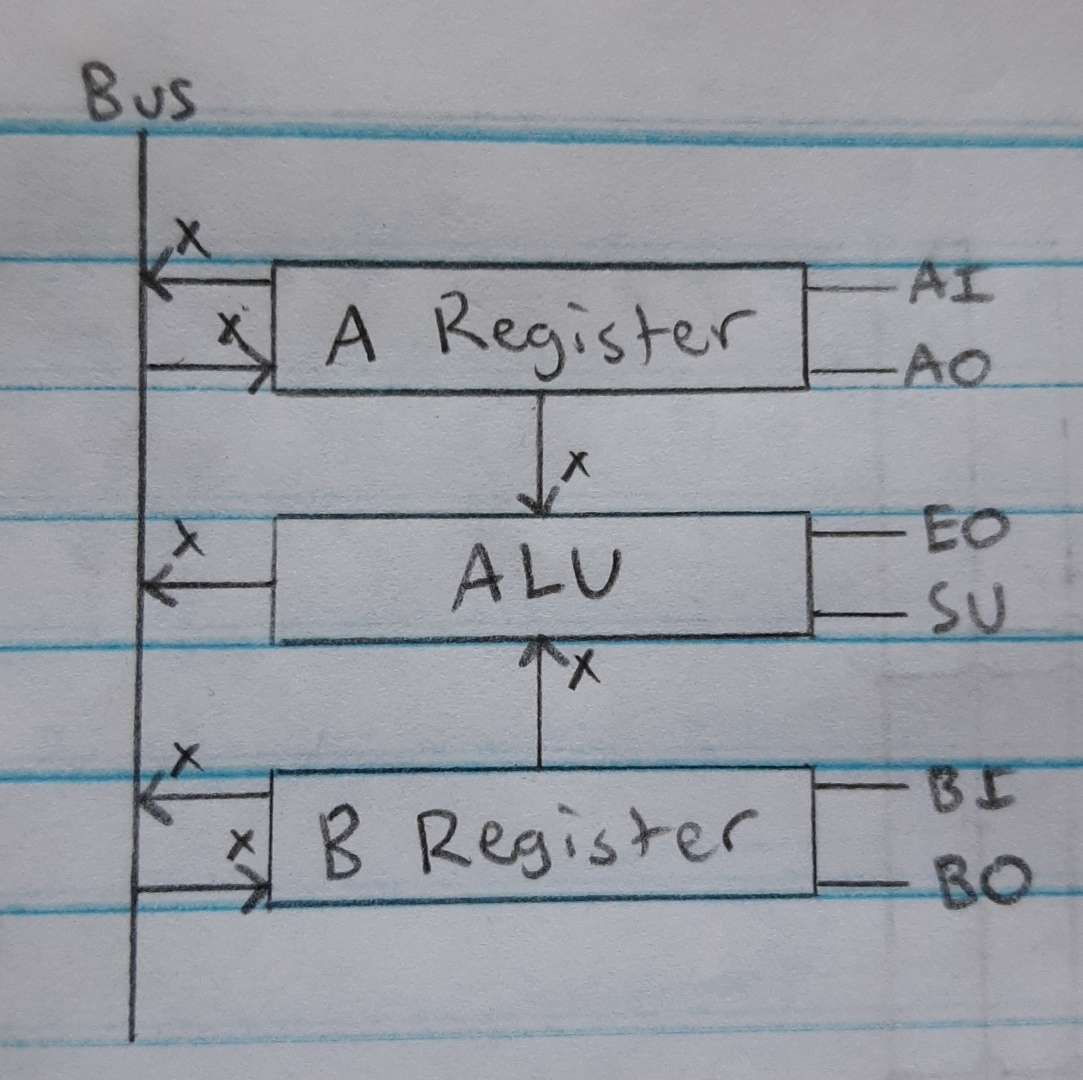
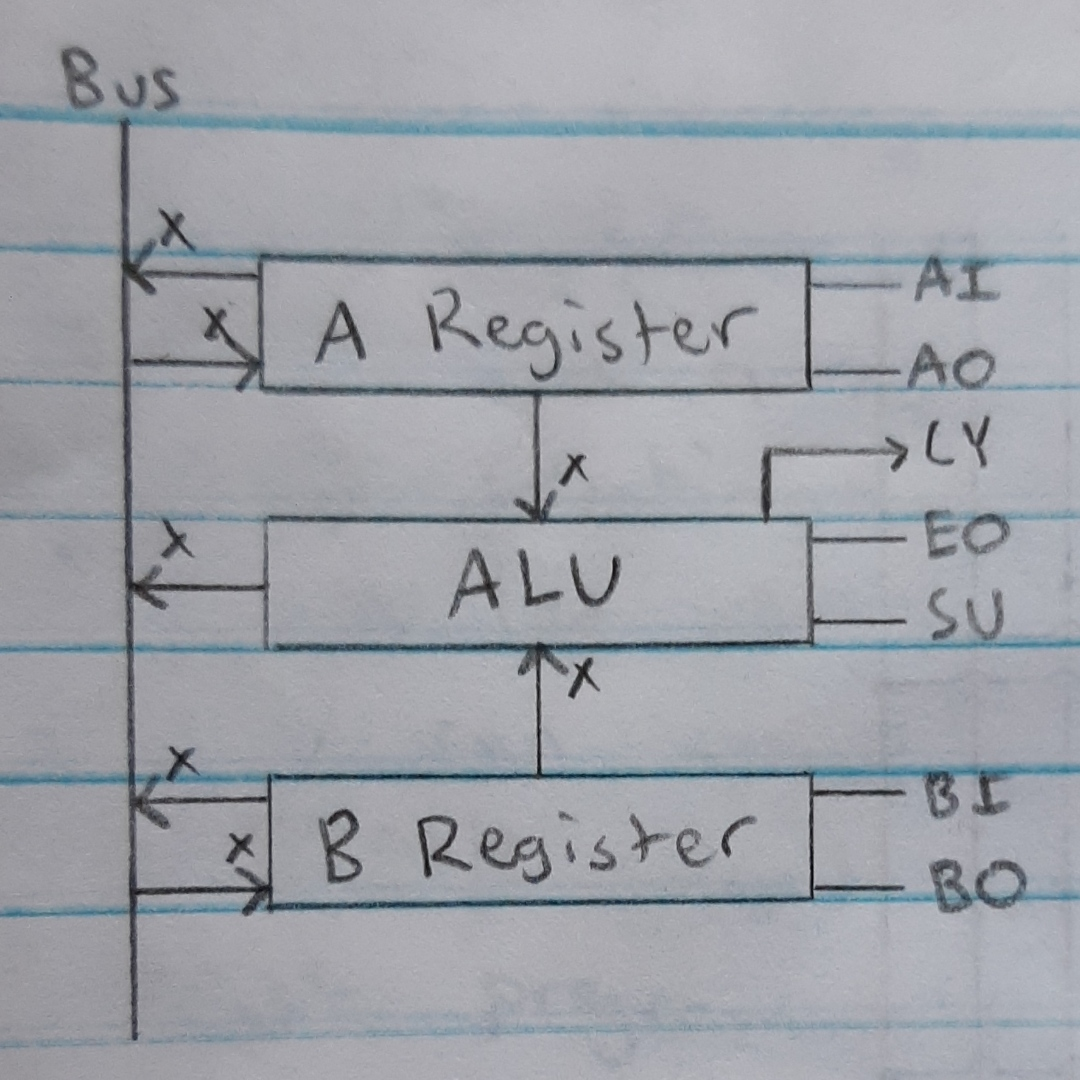
Adds description to control unit.

diff --git a/Tools/How_A_CPU_Works/how_a_cpu_works.md b/Tools/How_A_CPU_Works/how_a_cpu_works.md
@@ -53,6 +53,8 @@
 	- [Master Slave JK Flip Flop](#master-slave-jk-flip-flop)
 	- [Binary Counter](#binary-counter)
 	- [Program Counter Overview](#program-counter-overview)
+- [Control Unit](#control-unit)
+- [CPU Overview](#cpu-overview)
 
 <!-- /TOC -->
 
@@ -198,14 +200,15 @@ The arithmetic logic unit (ALU) is the module in the CPU which does mathematical
 
 <img src="alu_overview.jpeg" width="350" >
 
-| Input  | Description           |
-|--------|-----------------------|
-| **AI** | A register In/Load    |
-| **AO** | A register Out/Enable |
-| **EO** | Sum Out/Enable        |
-| **SU** | Subtract              |
-| **BI** | B register In/Load    |
-| **BO** | B register Out/Enable |
+| Control Signal | Description           |
+|----------------|-----------------------|
+| **AI**         | A register In/Load    |
+| **AO**         | A register Out/Enable |
+| **CY**         | Carry Bit             |
+| **EO**         | Sum Out/Enable        |
+| **SU**         | Subtract              |
+| **BI**         | B register In/Load    |
+| **BO**         | B register Out/Enable |
 
 - The X symbolizes the amount of connections equal to the base of the computer.
 
@@ -309,9 +312,12 @@ The address mapper/binary decoder is used to map the address to the correspondin
 <img src="ram_overview.jpeg" width="300" >
 
 - `A` is the Address size. In this CPU architecture the address size is assumed to be less than the word of the computer to allow one operation to set the address and instruction code.
-- **MI** - Memory Address In
-- **RI** - RAM In
-- **RO** - RAM Out
+
+| Control Signal | Description       |
+|----------------|-------------------|
+| **MI**         | Memory Address In |
+| **RI**         | RAM In            |
+| **RO**         | RAM Out           |
 
 ## [Program Counter](#how-a-cpu-works)
 The program counter is used to keep track of which address in RAM is being currently ran.
@@ -368,8 +374,19 @@ The binary counter is used to count 1, in binary, whenever the CLK goes from low
 |-------------------------------------------------------|-------------------------------------------------------|
 | <img src="program_counter_diagram.jpeg" width="350"> | <img src="program_counter_overview.jpeg" width="250"> |
 
-| Input  | Description             |
-|--------|-------------------------|
-| **CO** | Program Counter Out     |
-| **J**  | Jump/Program Counter In |
-| **CE** | Count enable/Increment  |
+| Control Signal | Description             |
+|----------------|-------------------------|
+| **CO**         | Program Counter Out     |
+| **J**          | Jump/Program Counter In |
+| **CE**         | Count enable/Increment  |
+
+## [Control Unit](#how-a-cpu-works)
+The control unit maps instructions, stored in the instruction register, to control signals for each of the modules of the computer.
+- You can use a sequence of logic gates to do this mapping, commonly called combinational logic circuits, but that tends to require a lot of logic gates.
+	- You can instead use Electronically Erasable Programmable Read Only Memory(EEPROMs). They are like a large programmable truth table.
+- Some of the control signals are activated when they are set low. These signals are ran through an inverter so they become active when they're high. This isn't necessary, but it makes it easer to think through.
+
+## [CPU Overview](#how-a-cpu-works)
+- Feedback loop makes computer turing complete
+
+- Image overview of each of the CPU components
